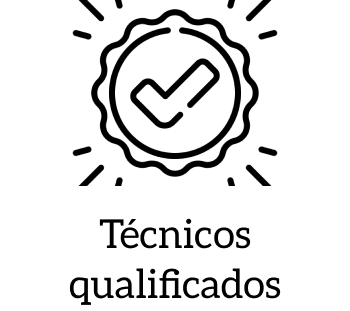
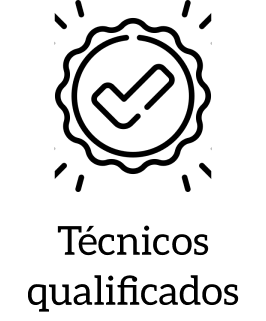
Commit 2.2v
página principal quase 100% finalizada falta , o insta do tio de camila , ajeitar algumas coisas.

diff --git a/Página1.html b/Página1.html
@@ -49,16 +49,49 @@
                 </div>
             </figure>
         </aside>
-        <article class="conteiner-vantagens">
-            <h2>Vantagens de escolher nossa assistência técnica </h2>
+        <section class="conteiner-vantagens">
+            <h2>Vantagens de escolher nossa <br> assistência técnica </h2>
             <div class="vantagens">
-            <img src="acessts/img/Atendimento Personalizado.png" alt="Atendimento Personalizado">
-            <img src="acessts/img/Orçamento sem compromisso.png" alt="Orçamento sem compromisso">
-            <img src="acessts/img/Técnicos qualificados.png" alt=" Técnicos qualificados">
+                <img src="acessts/img/Técnicos qualificados.png" alt=" Técnicos qualificados">
+                <img src="acessts/img/Orçamento sem compromisso.png" alt="Orçamento sem compromisso">
+                <img src="acessts/img/Atendimento Personalizado.png" alt="Atendimento Personalizado">
             </div>
-        </article>
+        </section>
 
     </main>
+        <footer class="footer">
+            <div class="footer-container">
+                <div class="footer-section about">
+                    <h3>Sobre nós</h3>
+                    <p>Com mais de 20 anos de experiência no mercado, nossa empresa se dedica á manutenção de celulares
+                        e relógios oferecendo serviços de alta qualidade e confiabilidade.</p>
+                    <a href="Página2.html" class="btn-about">Saiba mais</a>
+                </div>
+                <div class="footer-section menu">
+                    <h3>Menu</h3>
+                    <ul>
+                        <li><a href="#">Serviços</a></li>
+                        <li>Contato:</li>
+                    </ul>
+                    <p>(71) 9 1234567</p>
+                    <div class="social-icons">
+                        <a href="#"><img src="acessts/img/Whatsapp icon.png" alt="WhatsApp"></a>
+                        <a href="#"><img src="acessts/img/Instagram icon.png" alt="Instagram"></a>
+                    </div>
+                </div>
+                <div class="footer-section location">
+                    <h3>Localização</h3>
+                    <p>Rua dos ferroviários, 690/ Plataforma, Salvador, Bahia, Brazil</p>
+                </div>
+                <div class="footer-logo">
+                    <img src="acessts/img/Marcio artes sem fundo.png" alt="Márcio Artes Assistência Técnica">
+                </div>
+            </div>
+            <div class="footer-bottom">
+                <p>© 2024 Marcio Artes. Todos os direitos reservados</p>
+            </div>
+        </footer>
+
 
 </body>
 

diff --git a/Style.css b/Style.css
@@ -136,7 +136,96 @@ button:hover {
 }
 
 .conteiner-vantagens{
-     
+    text-align: center;
+    margin: 10px;
 }
+
+.vantagens {
+    display: flex;
+    align-items: center;
+    justify-content: space-around;
+    margin: 100px 20px;
+}
+
+.footer {
+    background-color: #D9D9D9;
+    color: #000000;
+    padding: 20px 0;
+    text-align: left;
+    font-family: 'Aleo', serif;
+}
+
+.footer-container {
+    display: flex;
+    flex-wrap: wrap;
+    justify-content: space-between;
+    max-width: 1200px;
+    margin: 0 auto;
+    padding: 0 20px;
+    gap: 30px
+    ;
+}
+
+.footer-section {
+    flex: 1;
+    min-width: 250px;
+    margin: 10px 20px;
+}
+
+.footer-section h3 {
+    margin-bottom: 15px;
+}
+
+.footer-section p, .footer-section ul, .footer-section a {
+    margin: 10px 0;
+}
+
+.footer-section ul {
+    list-style-type: none;
+    padding: 0;
+}
+
+.footer-section ul li {
+    margin-bottom: 10px;
+}
+
+.footer-section ul li a {
+    color: #000000;
+    text-decoration: none;
+}
+
+.footer-section .social-icons a {
+    margin-right: 10px;
+}
+
+.footer-logo {
+    flex: 1;
+    display: flex;
+    justify-content: center;
+    align-items: center;
+    margin: 10px 20px;
+}
+
+.footer-logo img {
+    max-height: 100px;
+}
+
+.footer-bottom {
+    color: #000000;
+    text-align: center;
+    padding: 10px 0;
+}
+
+.footer-bottom p {
+    margin: 0;
+}
+
+.btn-about {
+    color: #FF0000;
+}
+
+
+
+
 /* Css Página Dois (Só colocar o css da página dois aqui */
 
